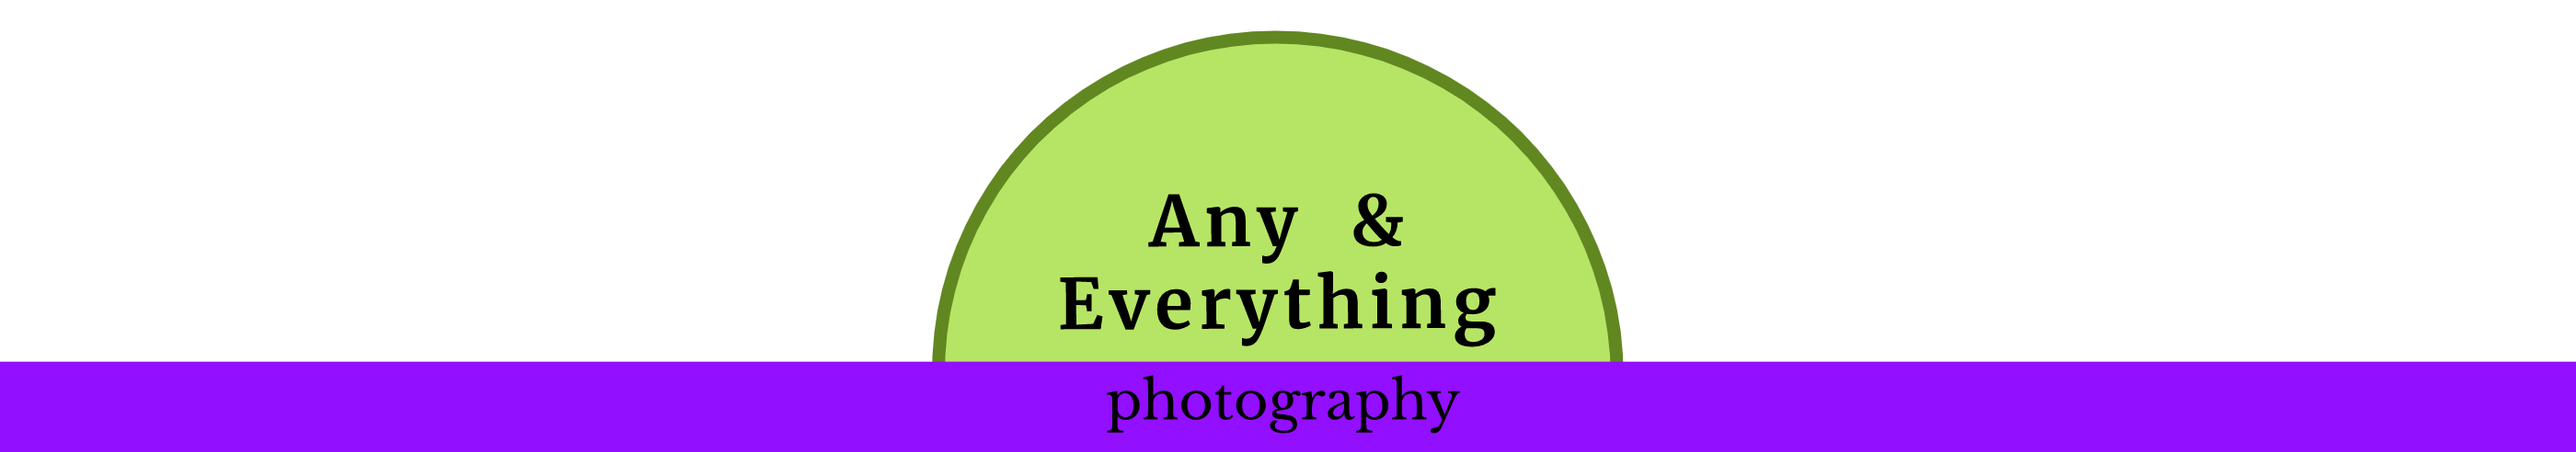
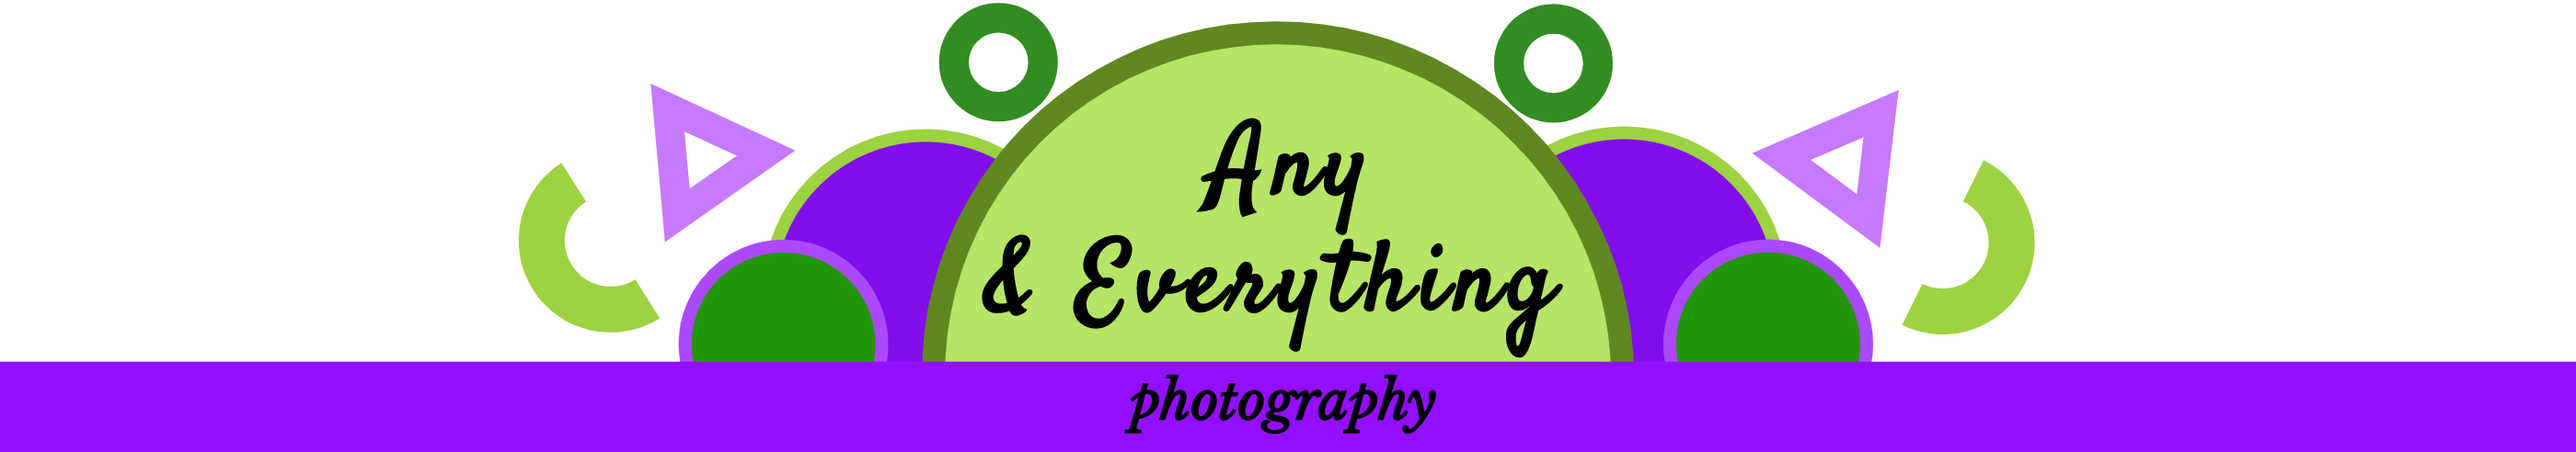
redo header AGAIN

Changed region(s): [[0.1864, 0.0, 0.8079, 0.8232], [0.435, 0.8232, 0.5593, 0.9756]]

diff --git a/any/src/components/Nav/index.js b/any/src/components/Nav/index.js
@@ -1,33 +1,33 @@
 import React from "react";
 import { NavLink } from "react-router-dom";
+import { slide as Menu } from 'react-burger-menu';
 
 function Nav() {
+    return (
 
-    return ( 
-        <div className="nav-container">
-            <div className="nav-links">
+        <Menu>
             <div className='menu-item'>
-                  <NavLink exact='true' to='/'>
-                      <h3>Home</h3>
-                  </NavLink>
-                </div>
-                <div className='menu-item'>
-                  <NavLink exact='true' to='/about'>
-                      <h3>About Me</h3>
-                  </NavLink>
-                </div>
-                <div className='menu-item'>
-                  <NavLink exact='true' to='/contact'>
-                      <h3>Contact Me</h3> 
-                  </NavLink>
-                </div>
-                <div className='menu-item'>
-                  <NavLink exact='true' to='/portfolio'>
-                      <h3>Portfolio</h3>
-                  </NavLink>
-                </div>
+              <NavLink exact='true' to='/'>
+                <h3>Home</h3>
+              </NavLink>
             </div>
-        </div>
+            <div className='menu-item'>
+              <NavLink exact='true' to='/about'>
+                <h3>About Me</h3>
+              </NavLink>
+            </div>
+            <div className='menu-item'>
+              <NavLink exact='true' to='/contact'>
+                <h3>Contact Me</h3> 
+              </NavLink>
+            </div>
+            <div className='menu-item'>
+              <NavLink exact='true' to='/portfolio'>
+                <h3>Portfolio</h3>
+              </NavLink>
+            </div>
+        </Menu>
+        
     )
 }
 

diff --git a/any/src/index.css b/any/src/index.css
@@ -20,30 +20,47 @@ code {
   width: 100%;
 }
 
-
-.nav-links {
-  display: inline-flex;
+.bm-item {
+  display: inline-block;
+  text-decoration: none;
+  margin-bottom: 15px;
+  color: white;
+  transition: color 0.2s;
+  position: sticky;
 }
 
-.nav-text {
-  position: relative;
+.bm-item:hover {
+  color: #b6b2b3;
 }
 
-.nav-container {
-  display: flex;
-  justify-content: space-around;
-  width: 100%;
-  padding-right: 15px;
-  padding-left: 15px;
-  margin-right: auto;
-  margin-left: auto;
+.bm-burger-button {
+  position: absolute;
+  width: 36px;
+  height: 30px;
+  left: 20px;
+  top: 20px;
 }
 
-.menu-item {
-  margin-left: 4em;
-  margin-right: 4em;
+.bm-burger-bars {
+  background: #ACD95F;
+  border: 2px solid #5E09A8;
 }
 
+.bm-cross-button {
+  height: 25px;
+  width: 25px;
+}
+
+.bm-cross {
+  background: white;
+}
+
+.bm-menu {
+  background: #171717;
+  box-shadow: 4px 4px 20px #2994D1;
+  padding: 2.5em 1.5em 0;
+  font-size: 1.15em;
+}
 
 
 
@@ -78,9 +95,18 @@ code {
     display: flex;
     flex-wrap: wrap;
     flex-direction:column;
+    width: 70%;
   }
 
   .form-container {
     background-size: contain;
+  }
+
+  .bm-burger-button {
+    position: absolute;
+    width: 25px;
+    height: 20px;
+    left: 10px;
+    top: 10px;
   }
 }

diff --git a/any/src/components/Header/index.js b/any/src/components/Header/index.js
@@ -1,6 +1,5 @@
 import React from "react"
 import headerimg from "../../assets/images/header-img/Drawing-3.png"
-import { NavLink } from "react-router-dom";
 
 
 function Header(props) {
@@ -14,9 +13,7 @@ function Header(props) {
       <section>
         <header className="home-header">
           <div className="">
-            <div className="nav-text">
-                <img className="home-header-img" src={headerimg}></img>
-            </div>
+            <img className="home-header-img" src={headerimg}></img>
           </div>
         </header>
         
